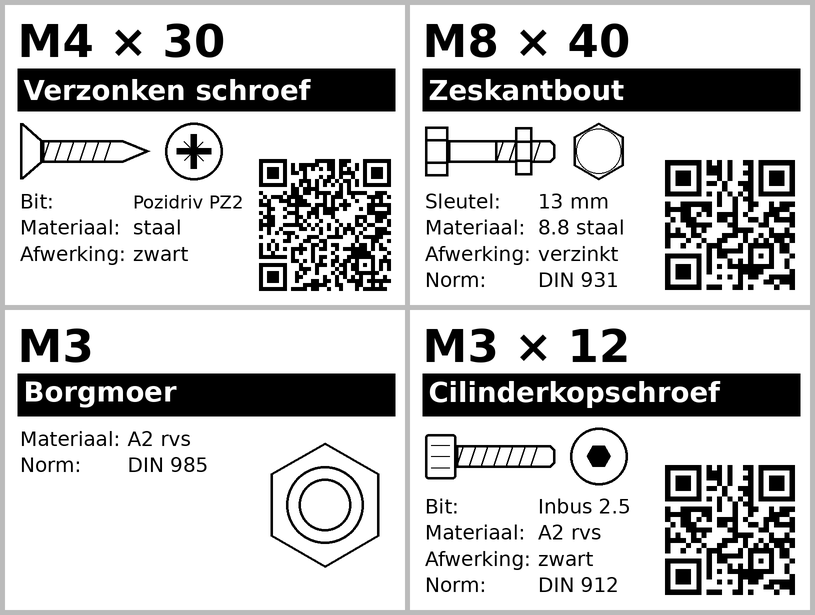
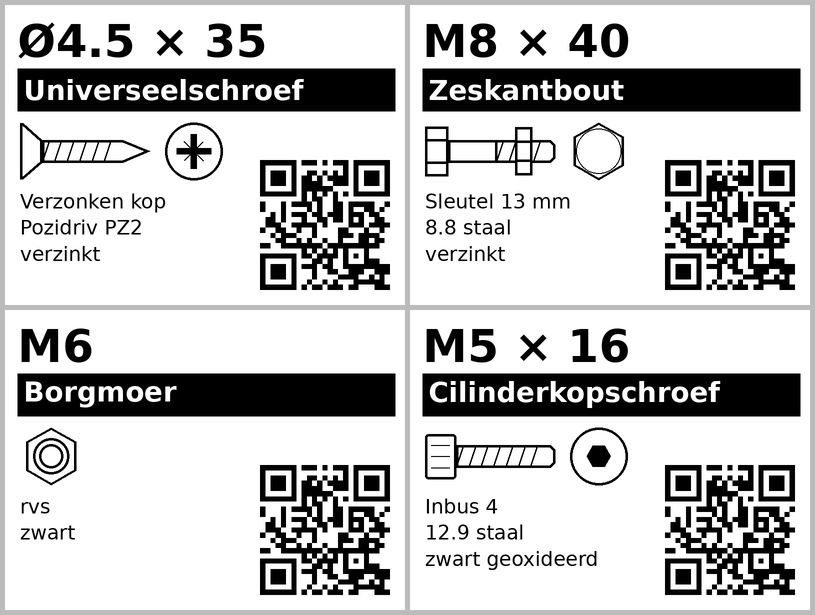
Hardware labels: head shape as its own line, drop standard
The head shape (Verzonken kop, Cilinderkop, ...) gets its own property
line unless the description already names it, so a custom label text
like 'Universeelschroef' still shows it. The DIN/ISO standard is no
longer shown or read.

Claude-Session: https://claude.ai/code/session_01Epe5KjDikwZoWYdgsmzvoH

diff --git a/generate_label.py b/generate_label.py
@@ -470,6 +470,10 @@ HW_TEXT = {
                   "pan": "Pan head {t}", "countersunk": "Countersunk {t}",
                   "cheese": "Cheese head {t}", "hex": "Hex head {t}",
                   "flange": "Flange head {t}"},
+        # Head shape as its own property line
+        "head_lines": {"cap": "Socket cap", "button": "Button head", "pan": "Pan head",
+                       "countersunk": "Countersunk", "cheese": "Cheese head",
+                       "hex": "Hex head", "flange": "Flange head"},
         "drives": {"phillips": "Phillips", "pozidriv": "Pozidriv", "slotted": "Slotted",
                    "hex": "Hex", "torx": "Torx", "square": "Square",
                    "external": "External hex"},
@@ -491,6 +495,9 @@ HW_TEXT = {
                   "pan": "Lenskop{t}", "countersunk": "Verzonken {t}",
                   "cheese": "Lage cilinderkop{t}", "hex": "Zeskant{t}",
                   "flange": "Flens{t}"},
+        "head_lines": {"cap": "Cilinderkop", "button": "Bolkop", "pan": "Lenskop",
+                       "countersunk": "Verzonken kop", "cheese": "Lage cilinderkop",
+                       "hex": "Zeskantkop", "flange": "Flenskop"},
         "drives": {"phillips": "Kruiskop", "pozidriv": "Pozidriv", "slotted": "Sleuf",
                    "hex": "Inbus", "torx": "Torx", "square": "Vierkant",
                    "external": "Zeskant"},
@@ -592,6 +599,11 @@ def hardware_properties(hw):
     prefix = text["props"]
     props = []
     if hw["type"] in ("screw", "bolt"):
+        # Head shape, unless the bar already names it ("Cilinderkopschroef")
+        head = text["head_lines"].get(hw["head"], hw["head"].title())
+        stem = re.sub(r"(kop| head)$", "", head.split()[0].lower())
+        if stem not in hardware_description(hw).lower():
+            props.append(head)
         drive = text["drives"].get(hw["drive"], hw["drive"].title())
         if hw.get("drive_size"):
             size = _fmt_num(hw["drive_size"])
@@ -605,7 +617,7 @@ def hardware_properties(hw):
         props.append(f"{prefix['pitch']} {_fmt_num(hw['pitch'])} mm")
     if hw.get("diameter"):
         props.append(f"{prefix['diameter']} {_fmt_num(hw['diameter'])} mm")
-    for key in ("material", "finish", "standard", "note"):
+    for key in ("material", "finish", "note"):
         if hw.get(key):
             props.append(str(hw[key]))
     return props
@@ -921,7 +933,6 @@ HB_FIELD_MAP = {
     "diameter": "diameter", "od": "diameter", "outer_diameter": "diameter",
     "material": "material", "grade": "material",
     "finish": "finish",
-    "standard": "standard", "din": "standard", "iso": "standard",
     "supplier_url": "supplier_url", "source_url": "supplier_url", "url": "supplier_url",
     "tip": "tip", "end": "tip",
     "label_text": "name",
@@ -937,7 +948,6 @@ HB_FIELD_MAP = {
     "buitendiameter": "diameter",
     "materiaal": "material",
     "afwerking": "finish", "kleur": "finish",
-    "norm": "standard",
     "punt": "tip",
     "leverancier_url": "supplier_url", "bron_url": "supplier_url", "link": "supplier_url",
     "label_tekst": "name",
@@ -1263,7 +1273,6 @@ def main():
         ("--diameter", "Outer diameter in mm (washers, inserts)"),
         ("--material", "e.g. A2 stainless, 12.9 steel"),
         ("--finish", "e.g. black oxide, zinc"),
-        ("--standard", "e.g. DIN 912"),
         ("--name", "Override the text in the black bar"),
         ("--note", "Short extra line on the label"),
     ):
@@ -1330,7 +1339,7 @@ def run_hardware(args, output_dir):
 
     # Flags override whatever Homebox returned
     for key in ("type", "size", "length", "head", "drive", "drive_size", "tip", "variant",
-                "pitch", "diameter", "material", "finish", "standard", "name", "note"):
+                "pitch", "diameter", "material", "finish", "name", "note"):
         value = getattr(args, key)
         if value is not None:
             hw[key] = value

diff --git a/README.md b/README.md
@@ -113,7 +113,7 @@ The following Bambu Lab-specific fields are also recognized:
 
 ## Hardware Labels
 
-The same 40x30mm label also works for screws, bolts, nuts, washers, heat-set inserts and standoffs. A hardware label shows the size (`M3 × 12`), a description bar (`Socket cap screw`), a side-view icon of the part with its head shape, a top-view icon of the drive, up to four property lines without labels (`Inbus 4`, `12.9 staal`, `zwart geoxideerd`, `DIN 912`) so long values stay readable, and an optional QR code.
+The same 40x30mm label also works for screws, bolts, nuts, washers, heat-set inserts and standoffs. A hardware label shows the size (`M3 × 12`), a description bar (`Socket cap screw`), a side-view icon of the part with its head shape, a top-view icon of the drive, up to four property lines without labels (`Verzonken kop`, `Torx T20`, `12.9 staal`, `zwart geoxideerd`) so long values stay readable, and an optional QR code.
 
 ![Example hardware labels](example_hardware.png)
 
@@ -132,7 +132,7 @@ You can also skip Homebox and pass everything as flags:
 
 ```bash
 python generate_label.py hw --type screw --size M3 --length 12 --head cap --drive hex \
-    --material "A2 stainless" --standard "DIN 912" --qr-url https://example.com/m3-screws
+    --material "A2 stainless" --qr-url https://example.com/m3-screws
 ```
 
 Flags also override what Homebox returns. Run `python generate_label.py hw --help` for the full list.
@@ -154,7 +154,7 @@ Add these as text fields on your hardware items. All are optional, and field nam
 | `Type` (Soort) | screw, bolt, nut, washer, insert, standoff | Icon and description |
 | `Size` (Maat) | M3, M2.5 | Title |
 | `Length` (Lengte) | 12 | Title (screws, bolts, inserts, standoffs) |
-| `Head` (Kop) | cap, button, pan, countersunk (sunken/flat), cheese, hex, flange | Side icon and description |
+| `Head` (Kop) | cap, button, pan, countersunk (sunken/flat), cheese, hex, flange | Side icon, description, and its own line when the description doesn't name it |
 | `Drive` (Aandrijving) | hex (allen), torx, phillips, pozidriv, slotted (flat), square | Top icon and properties |
 | `Drive size` (Bitmaat, Sleutelmaat) | 2.5, T20, PH2, or 13 for a hex head | Properties |
 | `Tip` (Punt) | flat (default), point | Side icon |
@@ -163,7 +163,6 @@ Add these as text fields on your hardware items. All are optional, and field nam
 | `Diameter` (Buitendiameter) | 4.6 (outer diameter of washers, inserts) | Properties |
 | `Material` (Materiaal) | A2 stainless, 12.9 steel, brass, nylon | Properties |
 | `Finish` (Afwerking) | black oxide, zinc (zwart, verzinkt) | Properties |
-| `Standard` (Norm) | DIN 912, ISO 7380 | Properties |
 | `Supplier URL` (Leverancier URL) | link to the product page | QR with `--qr supplier` |
 | `Label text` (Label tekst) | overrides the description bar | Description |
 | `Label note` (Label notitie) | short extra line | Properties |
